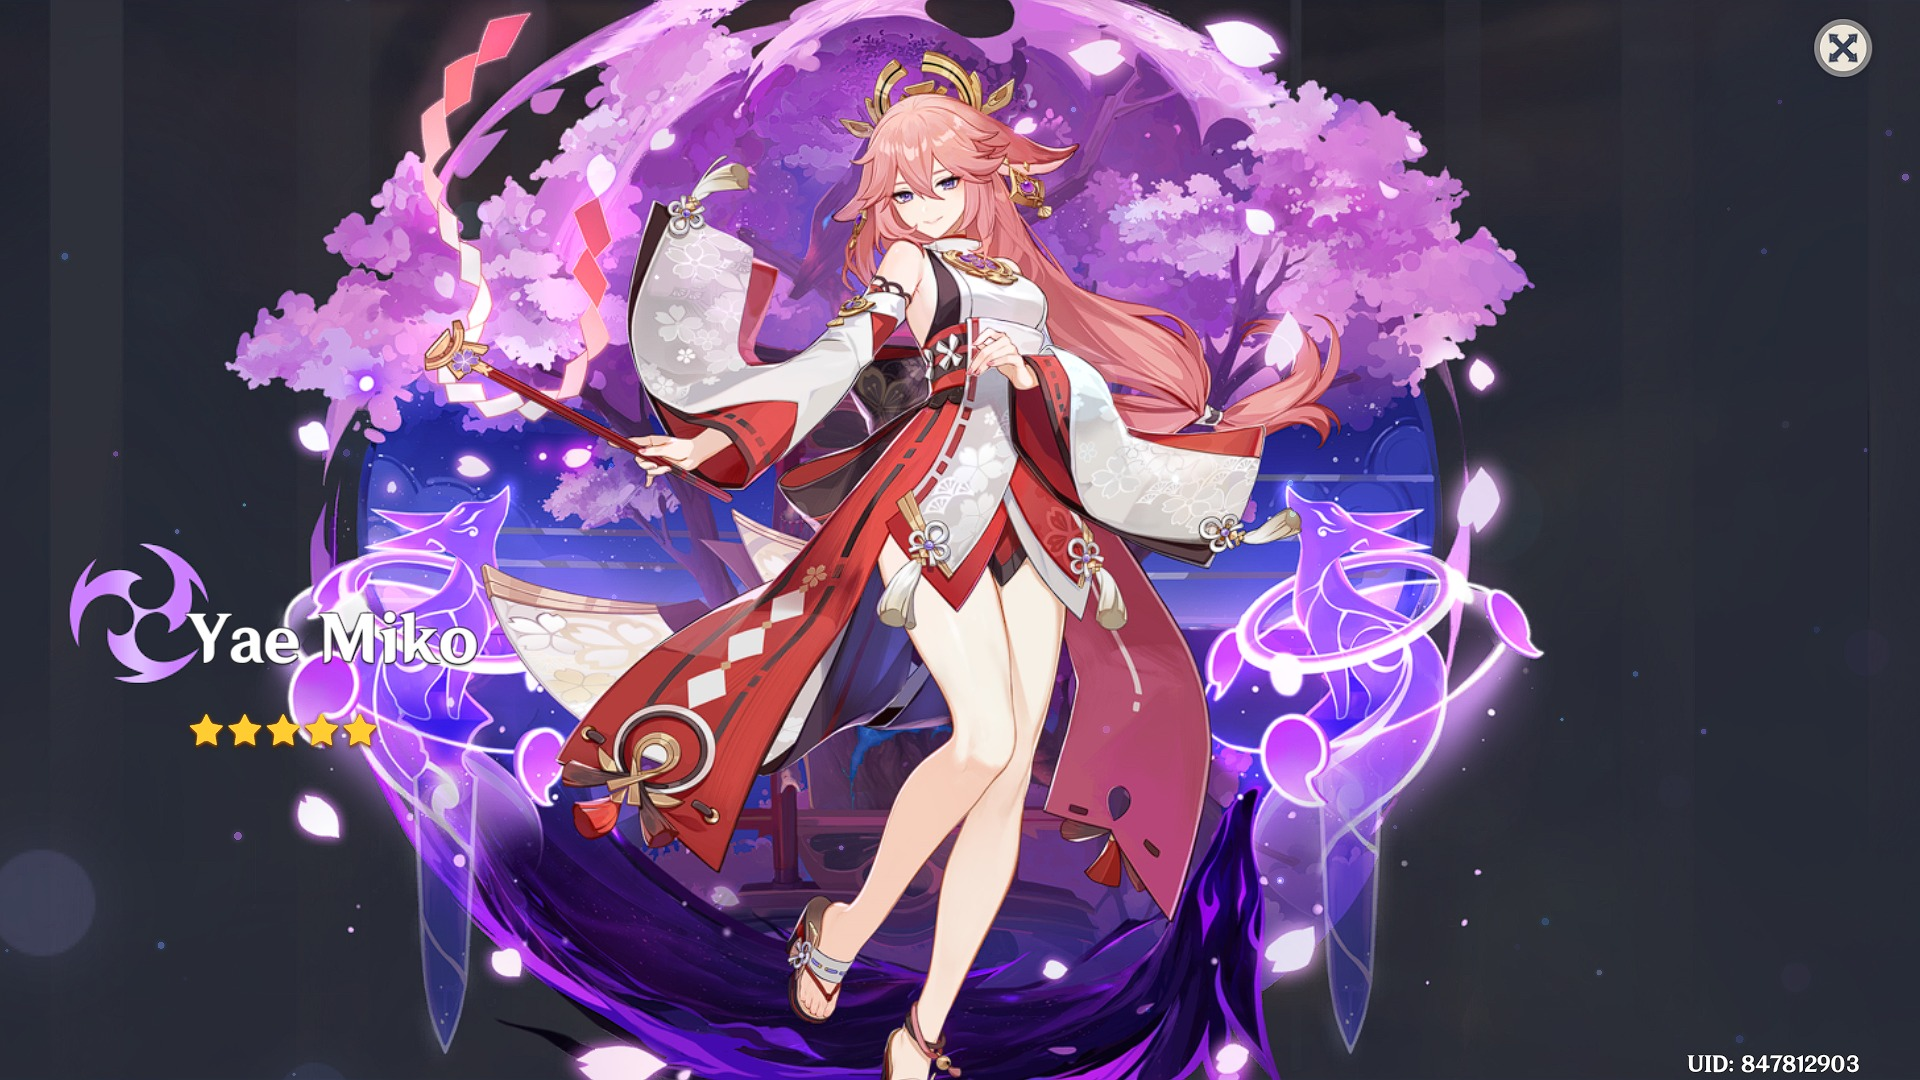
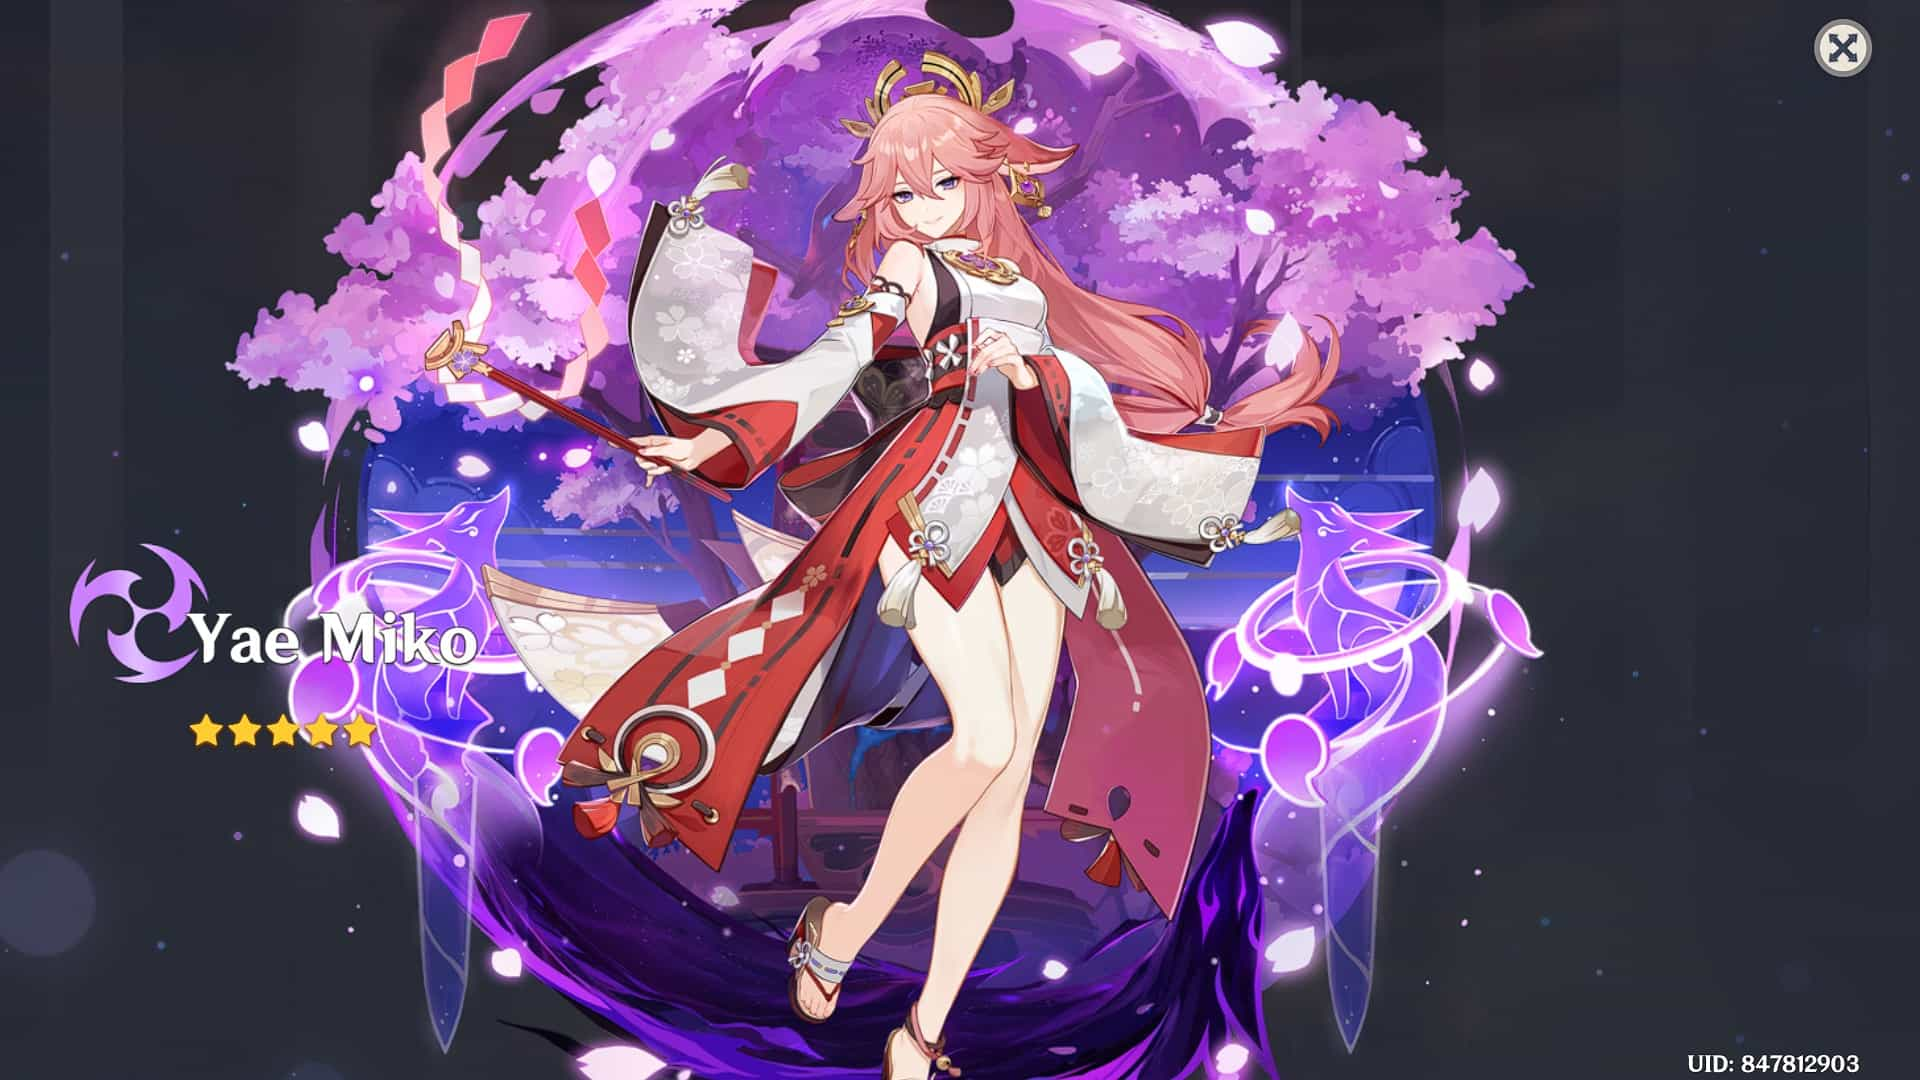
mengubah foto menjadi lebih ringan

diff --git a/index.html b/index.html
@@ -105,7 +105,7 @@
           </div>
           <div class="col-md-4 mb-3">
             <div class="card">
-              <img src="img/projects/3.png" class="card-img-top" alt="Project 1" />
+              <img src="img/projects/3.jpg" class="card-img-top" alt="Project 1" />
               <div class="card-body">
                 <p class="card-text">Some quick example text to build on the card title and make up the bulk of the card's content.</p>
               </div>
